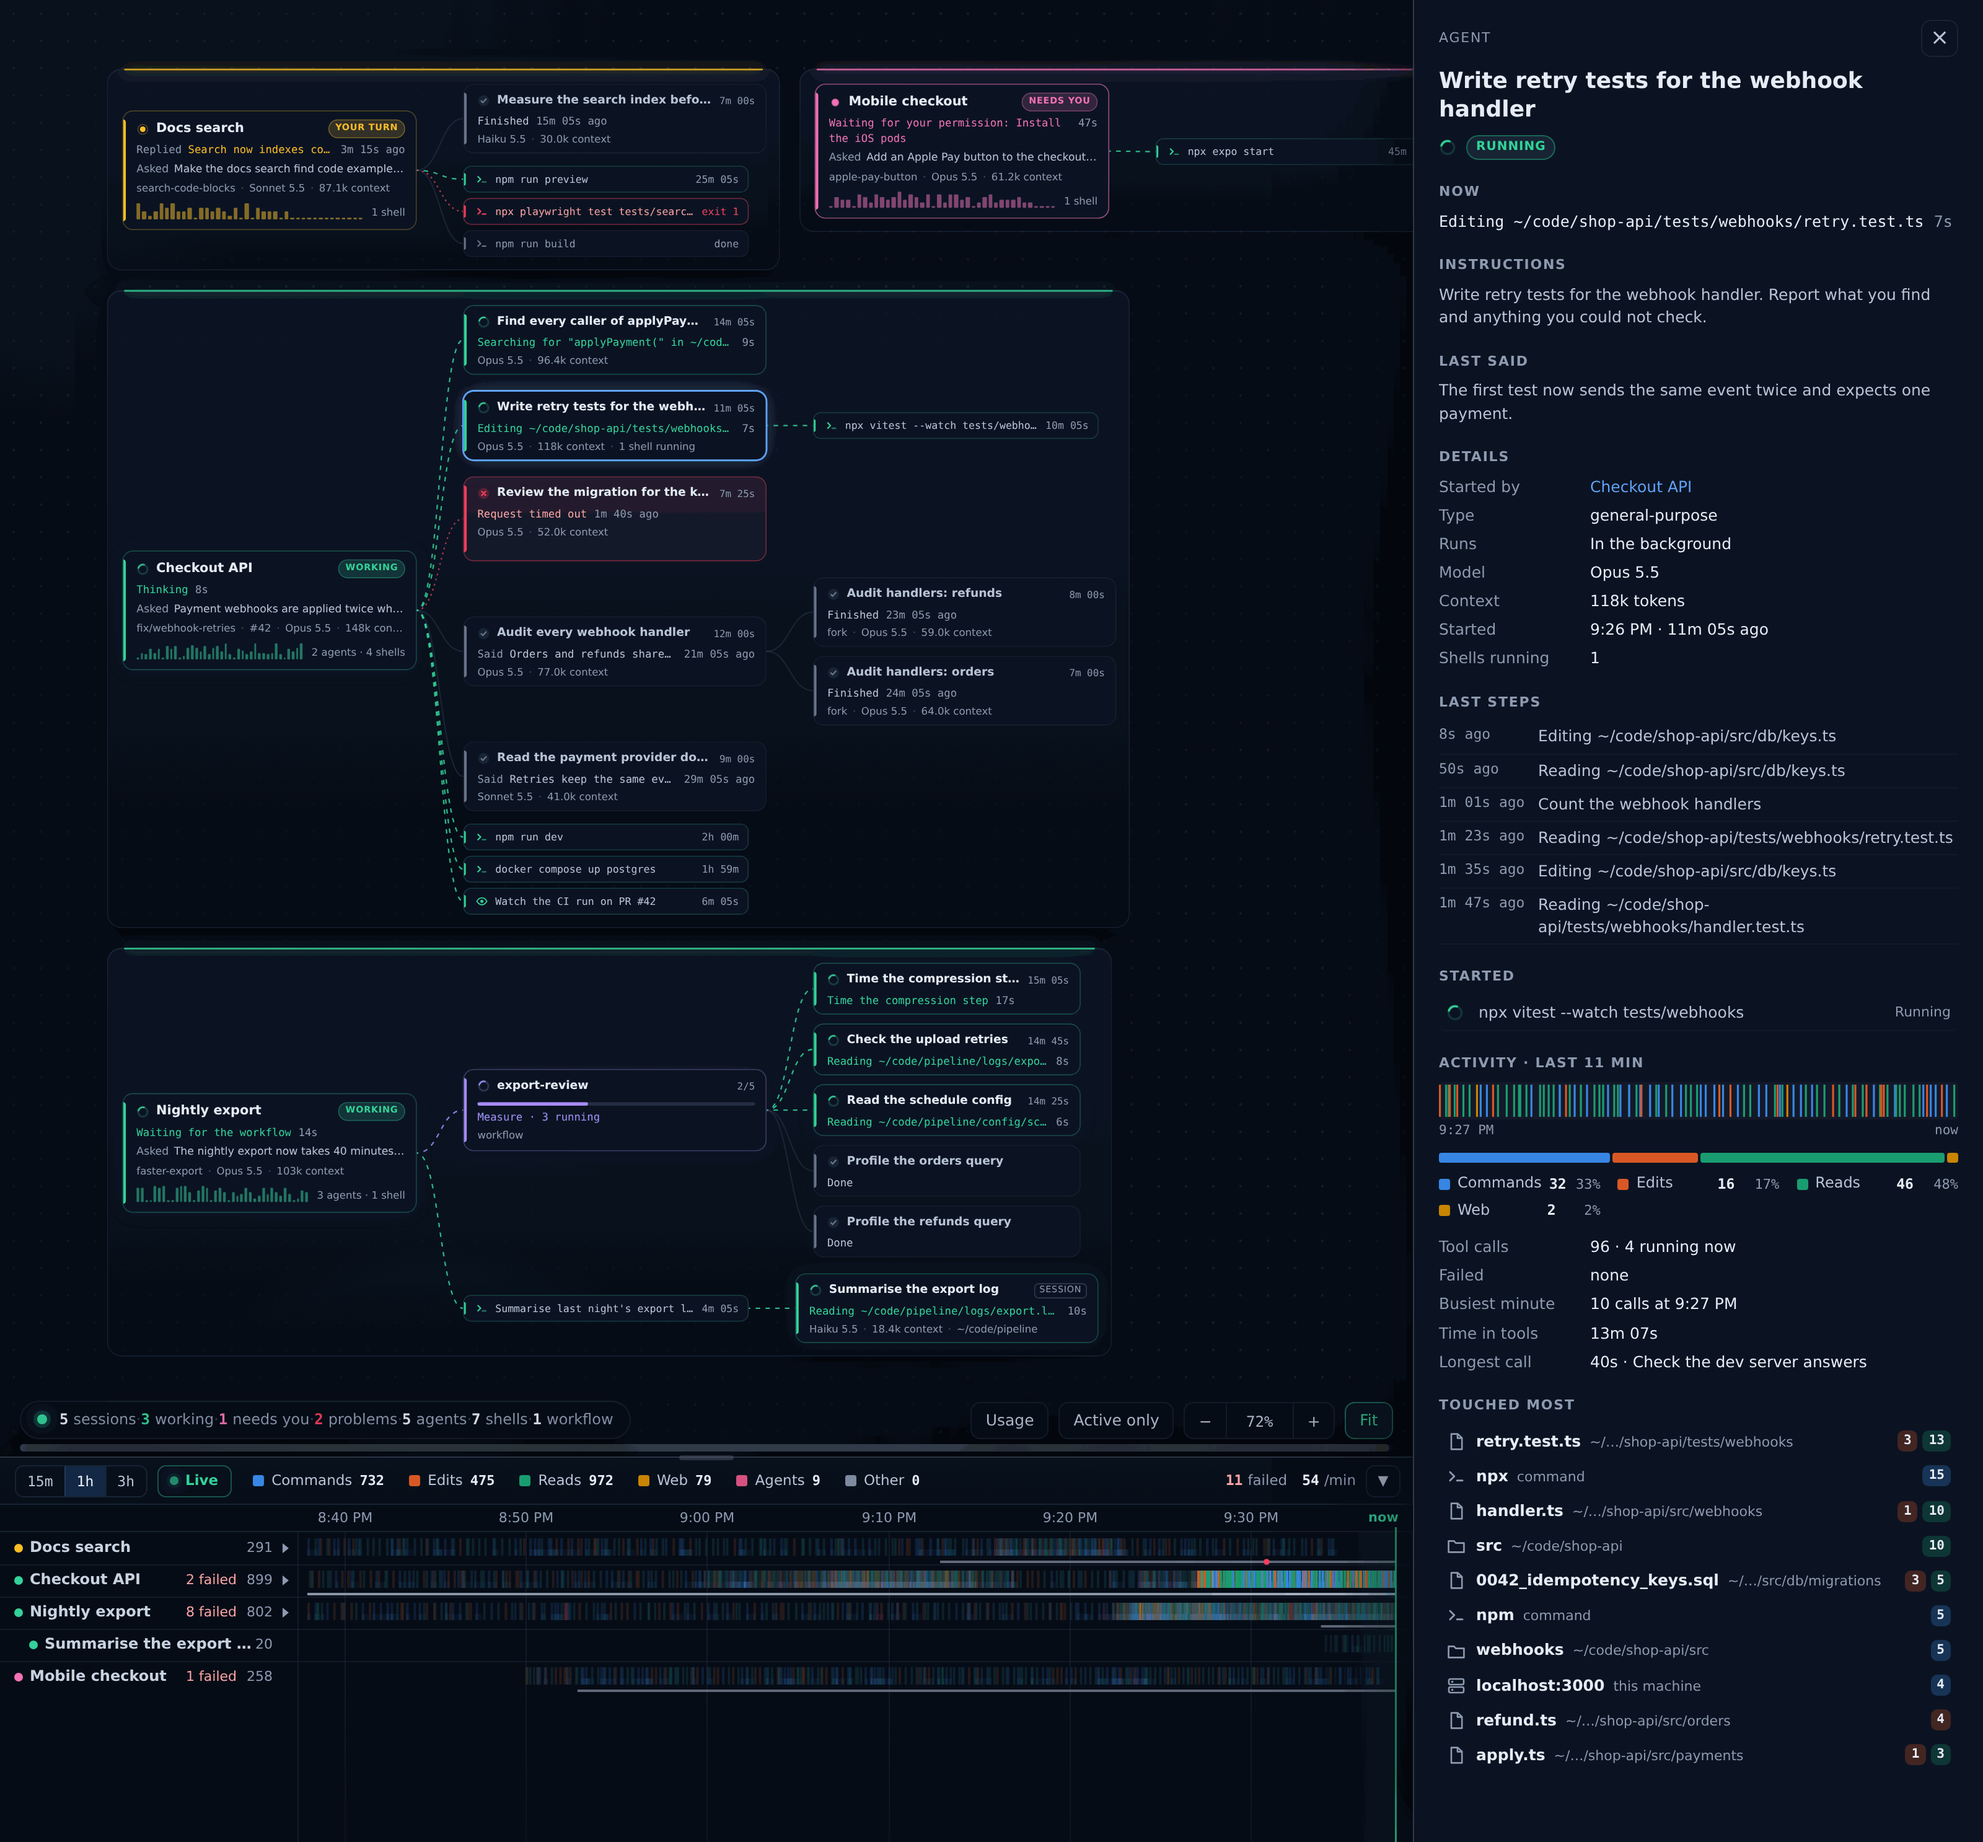
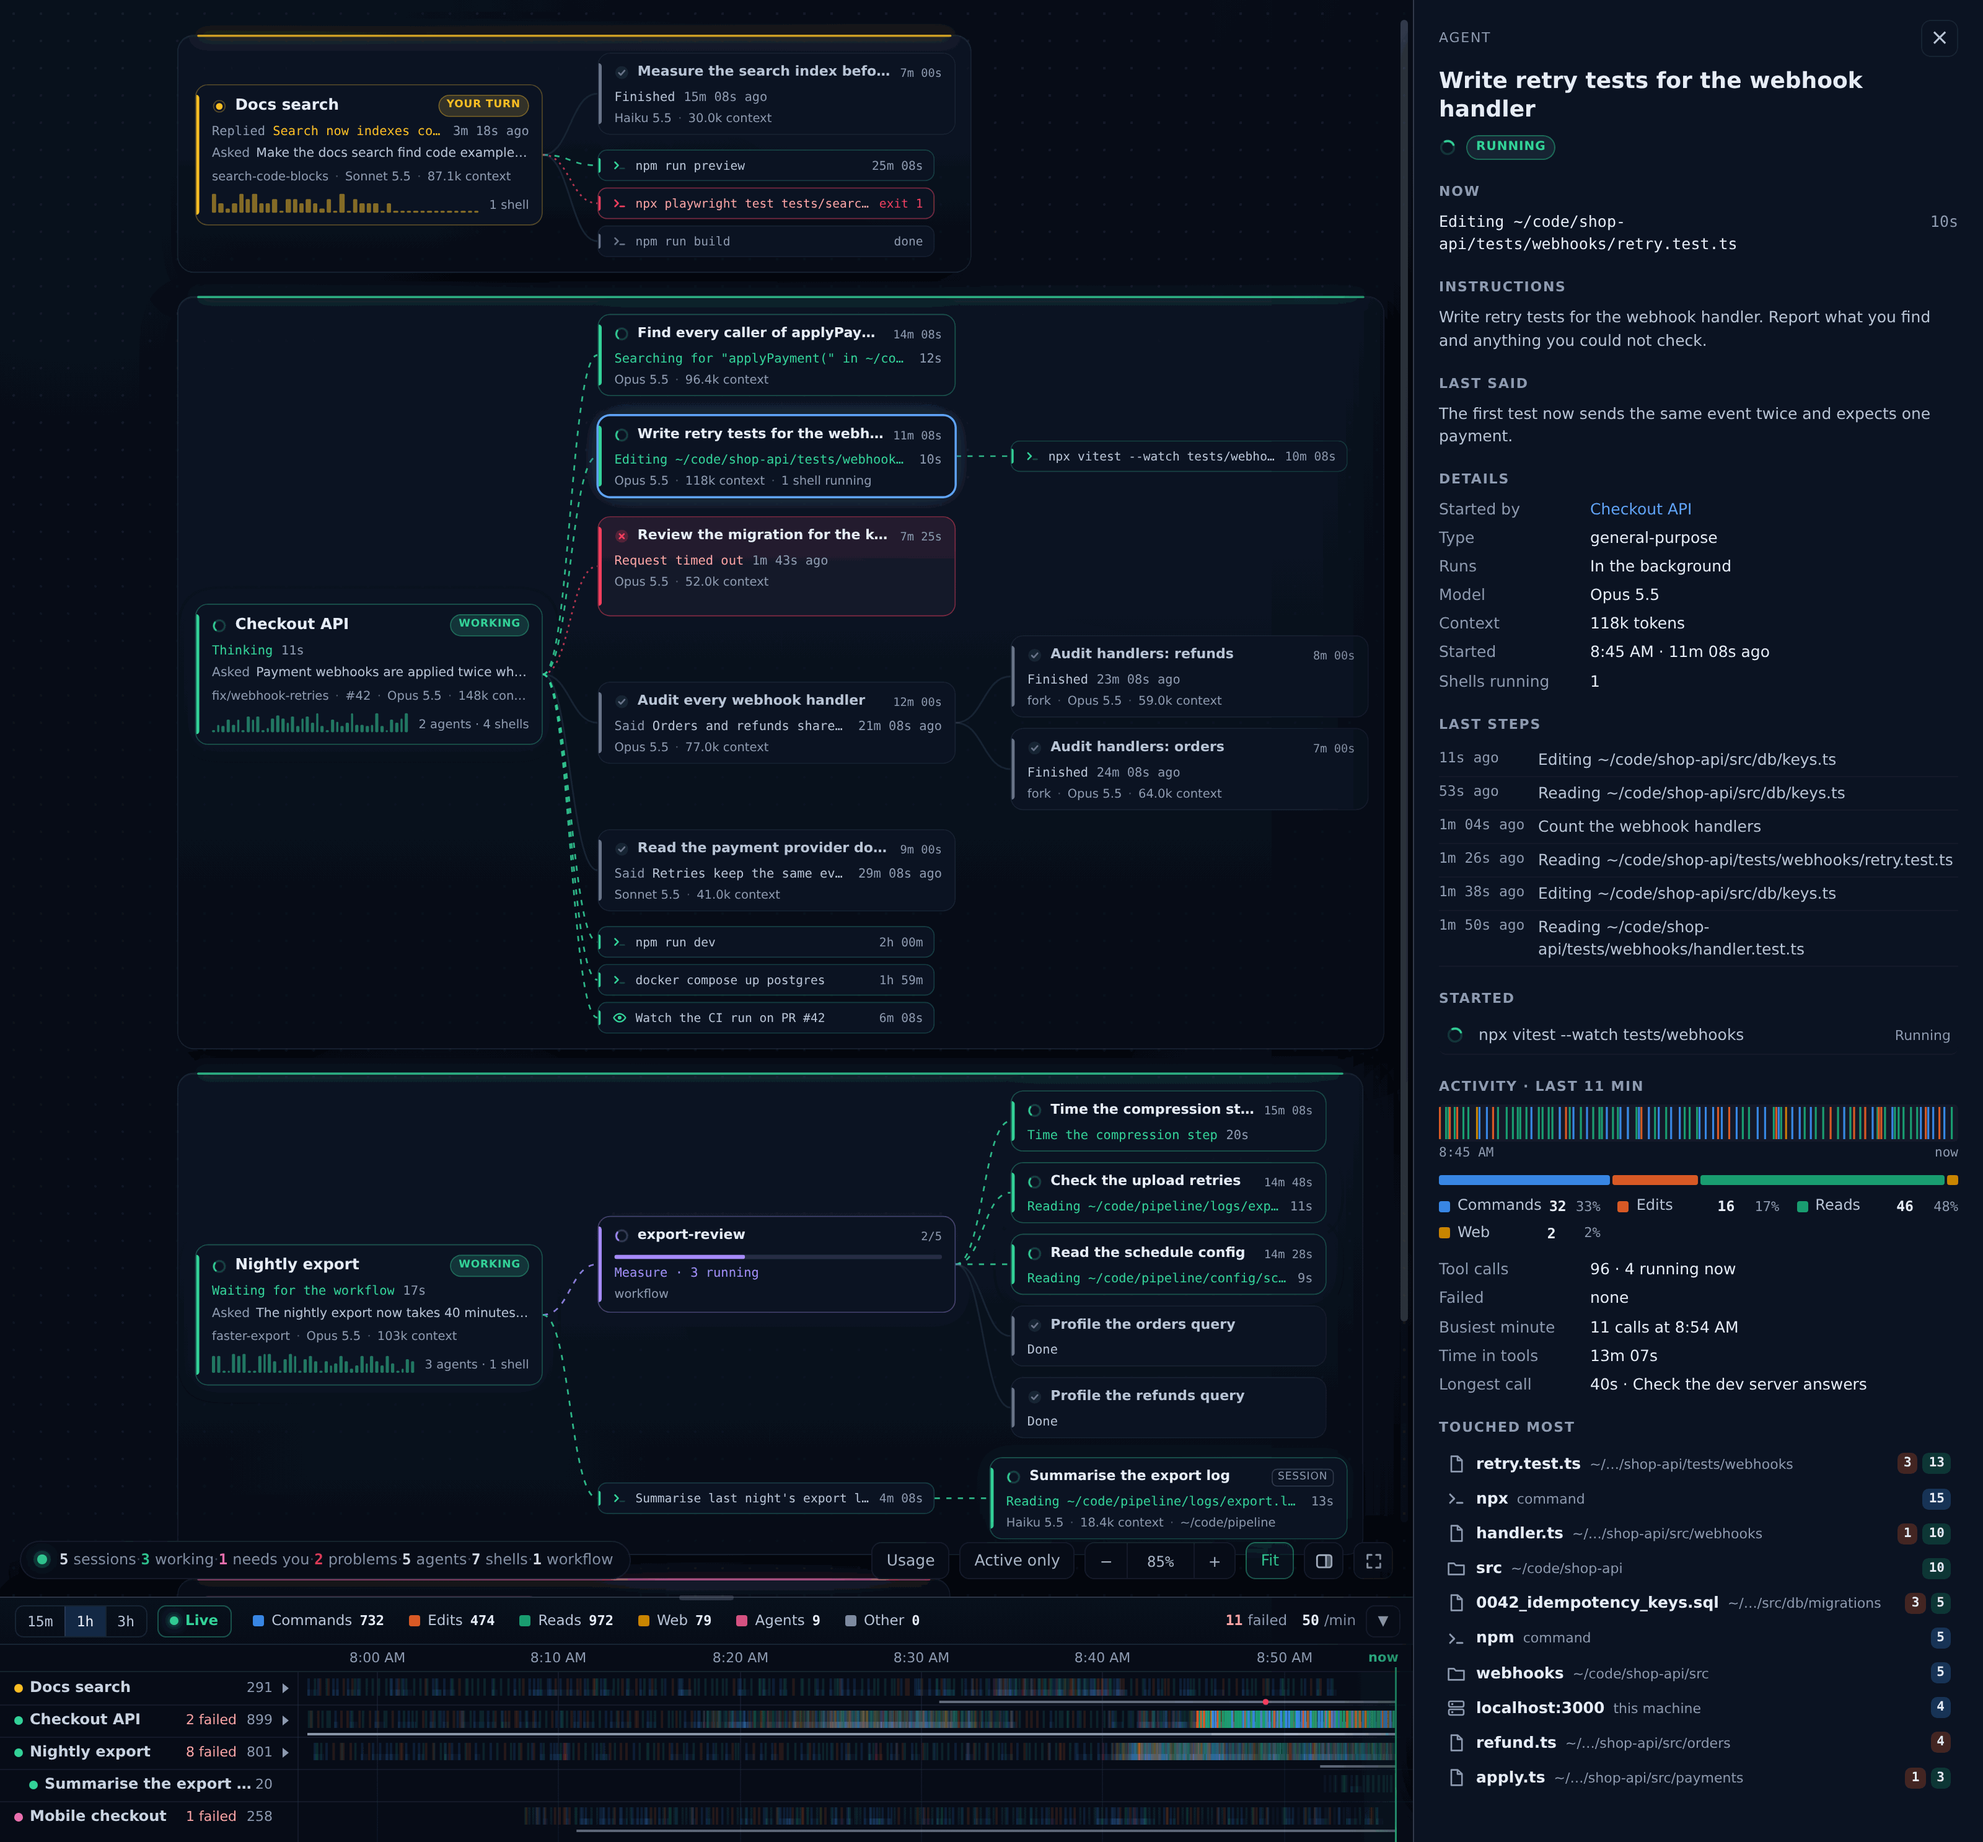
README: demo GIF, one-line pitch and badges, and stills of the new layout
- A 17-second GIF at the top shows the board updating live: a session
  turns pink when it needs you, and a click on an agent opens its panel.
- A one-line pitch and four badges (zero tokens, read-only, listens on
  127.0.0.1 only, no npm packages) say up front why it is safe to run.
- The board, panel and usage screenshots are re-taken on the current
  layout and moved under "Using it".

diff --git a/README.md b/README.md
@@ -1,12 +1,19 @@
 # claude-overview
 
+**See every Claude Code session on your machine at once, and which one is waiting on you.**
+
+![Tokens: zero](https://img.shields.io/badge/tokens-zero-2ea043)
+![Access: read-only](https://img.shields.io/badge/access-read--only-2ea043)
+![Listens on 127.0.0.1 only](https://img.shields.io/badge/listens%20on-127.0.0.1%20only-2ea043)
+![npm packages: none](https://img.shields.io/badge/npm%20packages-none-2ea043)
+
+![The board updating live: a session turns pink when it needs you, and clicking an agent opens its details](docs/screenshots/demo.gif)
+
 A live view of every Claude Code session on your machine: each session with its agents, workflows and background
 shells, a timeline of every tool call, the files, servers and sites each session is touching, and your token usage.
 It only reads files Claude Code already writes, so it costs no tokens.
 
-![The board with four sessions, the needs-attention list, what they are touching and the timeline](docs/screenshots/overview.png)
-
-The screenshots show made-up projects.
+The demo and the screenshots show made-up projects.
 
 ## Requirements
 
@@ -40,6 +47,8 @@ Then open http://127.0.0.1:3100/.
 - Usage, or the U key, opens token totals by day, model, session and folder, and the plan limits of each cswap account.
 - A reload keeps how you left it: the zoom (and the scroll, in a window of the same size), the open panel, expanded
   groups, the timeline and the right-hand column.
+
+![The whole board: five sessions, the needs-attention list, what they are touching and the timeline](docs/screenshots/overview.png)
 
 ![The detail panel of a running agent](docs/screenshots/details.png)
 
